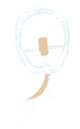
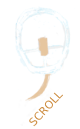
scroll

Changed region(s): [[0.35, 0.7132, 0.8, 0.9922]]

diff --git a/src/assets/scroll.css b/src/assets/scroll.css
@@ -38,11 +38,10 @@
   font-family: "OpenSans";
 }
 
-@media only screen and (max-width: 600px) {
+@media only screen and (max-width: 800px) {
   .text-wrapperScroll {
-   top:  70%;
-  
-  left:-100px;
+   top:  70%;  
+  	left:100px;
   
  
 
@@ -50,7 +49,7 @@
 .text-wrapperScroll-hovered {
    top:  70%;
   
-  left:-100px;
+  left:100px;
 
 
 
